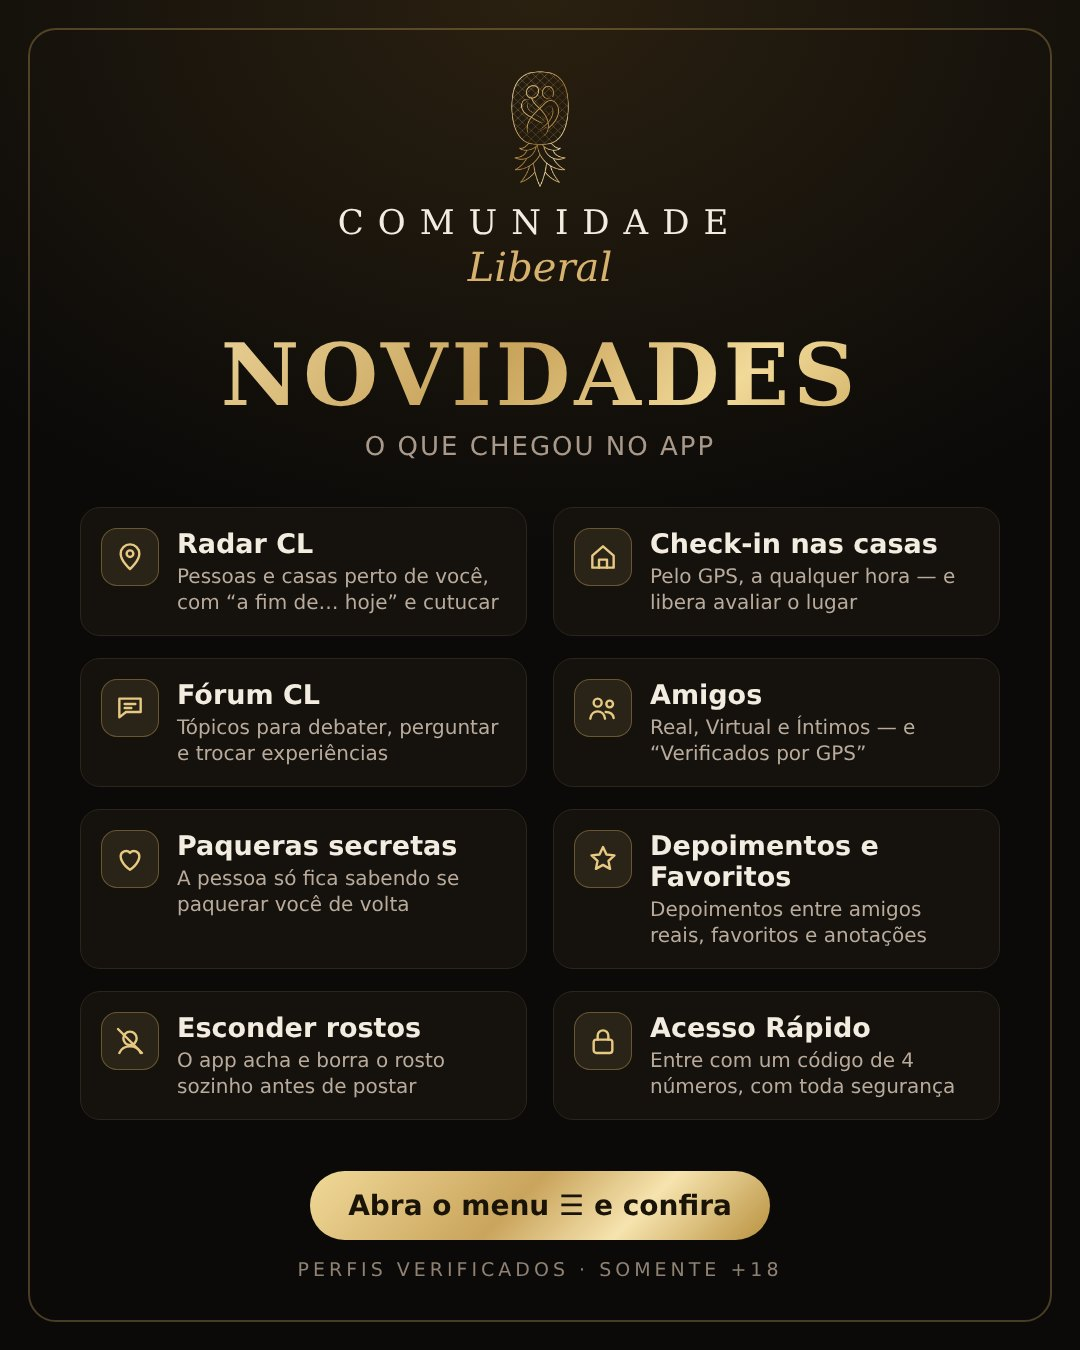
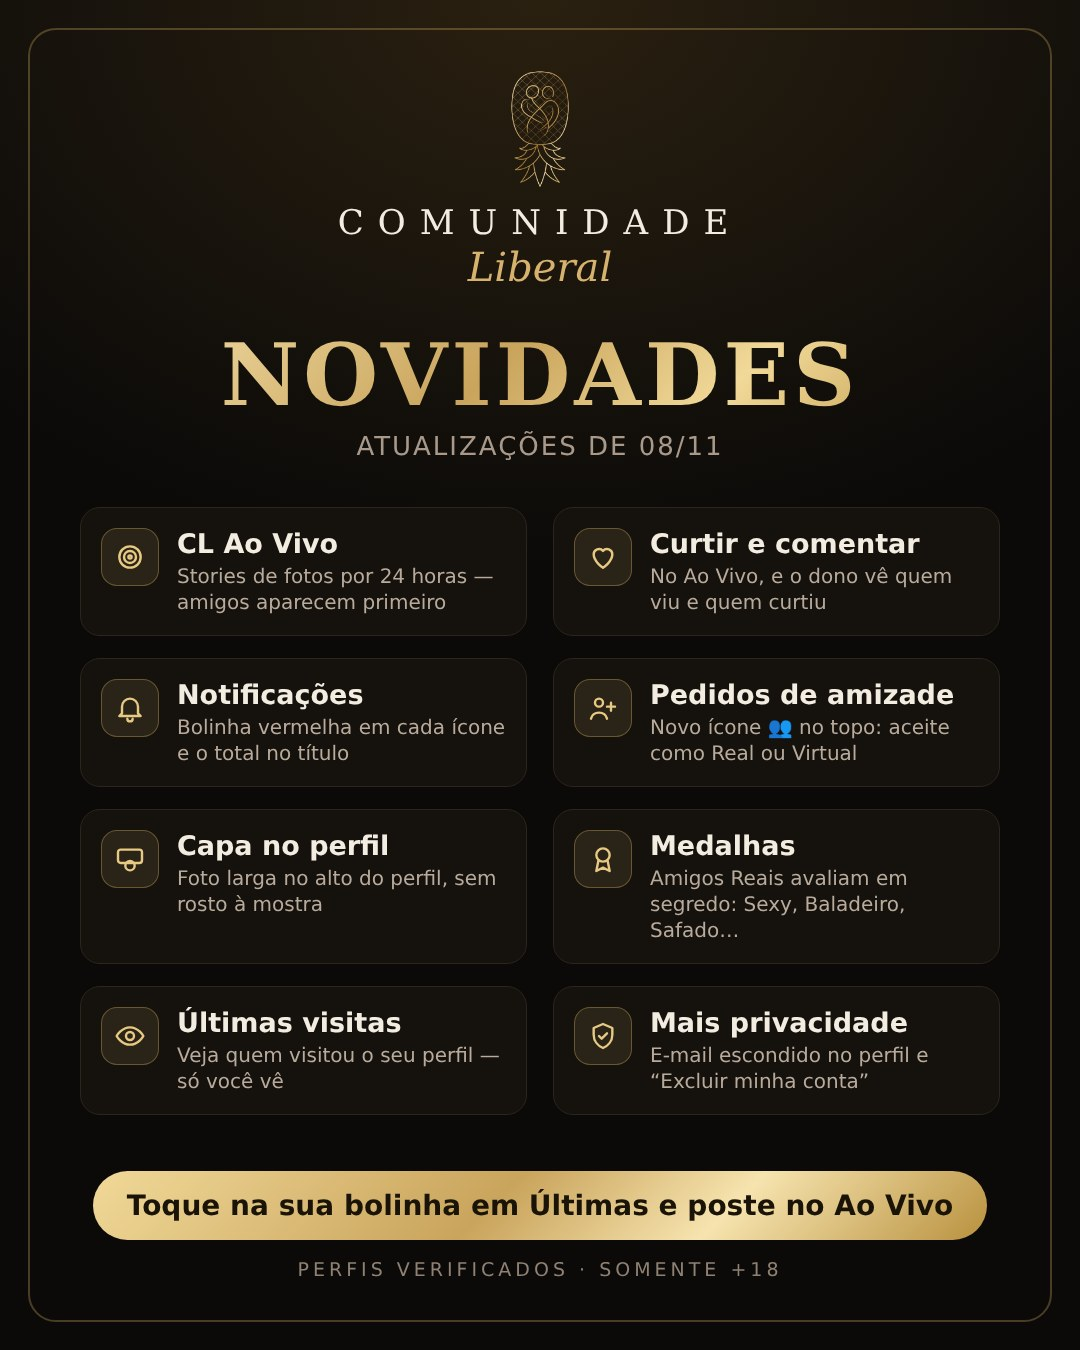
Add files via upload

diff --git a/comunidade/novidades.html b/comunidade/novidades.html
@@ -22,25 +22,25 @@
 <main>
   <div class="cartao" id="carregando"><p class="suave">Carregando…</p></div>
   <div class="oculto nv" id="tela">
-    <img class="nv-img" src="novidades.jpg?v=1" alt="Novidades da Comunidade Liberal" width="1080" height="1350">
+    <img class="nv-img" src="novidades.jpg?v=3" alt="Novidades da Comunidade Liberal" width="1080" height="1350">
     <div class="titulo-secao">Toque para conhecer</div>
+    <a class="it" href="inicio.html?aba=ultimas"><span class="e">📸</span><span><b>CL Ao Vivo</b><small>Stories de fotos por 24 horas — toque na sua bolinha em Últimas para postar</small></span></a>
+    <a class="it" href="minhas.html?ver=amigos"><span class="e">👥</span><span><b>Pedidos de amizade</b><small>Novo ícone no topo, com a bolinha vermelha de aviso</small></span></a>
+    <a class="it" href="meu-perfil.html"><span class="e">🖼</span><span><b>Capa no perfil</b><small>Toque em “Editar capa” no seu perfil</small></span></a>
+    <a class="it" href="minhas.html?ver=avaliar"><span class="e">🏅</span><span><b>Medalhas</b><small>Avalie seus Amigos Reais em segredo</small></span></a>
+    <a class="it" href="meu-perfil.html"><span class="e">👁</span><span><b>Últimas visitas</b><small>Quem visitou o seu perfil — só você vê</small></span></a>
+    <a class="it" href="seguranca.html#excluir"><span class="e">🔒</span><span><b>Privacidade</b><small>E-mail escondido e a opção de excluir a conta</small></span></a>
     <a class="it" href="radar.html"><span class="e">📡</span><span><b>Radar CL</b><small>Pessoas e casas perto de você, “a fim de… hoje” e cutucar</small></span></a>
-    <a class="it" href="checkin.html"><span class="e">📍</span><span><b>Check-in nas casas</b><small>Pelo GPS, a qualquer hora — libera avaliar o lugar</small></span></a>
     <a class="it" href="forum.html"><span class="e">💬</span><span><b>Fórum CL</b><small>Tópicos para debater, perguntar e trocar experiências</small></span></a>
-    <a class="it" href="minhas.html?ver=amigos"><span class="e">🤝</span><span><b>Amigos</b><small>Real, Virtual, Íntimos e Verificados por GPS</small></span></a>
-    <a class="it" href="minhas.html?ver=paqueras"><span class="e">💘</span><span><b>Paqueras secretas e Favoritos</b><small>A pessoa só fica sabendo se paquerar você de volta</small></span></a>
-    <a class="it" href="minhas.html?ver=depoimentos"><span class="e">⭐</span><span><b>Depoimentos e Anotações</b><small>Depoimentos entre amigos reais; anotações só você vê</small></span></a>
-    <a class="it" href="inicio.html?postar=foto"><span class="e">🫥</span><span><b>Esconder rostos</b><small>O app acha e borra o rosto antes de postar</small></span></a>
-    <a class="it" href="seguranca.html#codigo"><span class="e">🔢</span><span><b>Acesso Rápido</b><small>Crie seu código de 4 números</small></span></a>
     <a class="it" href="suporte.html"><span class="e">👑</span><span><b>Falar com a Administração</b><small>Dúvidas, sugestões e problemas</small></span></a>
   </div>
 </main>
 
-<footer><a href="regras.html">Regras e privacidade</a> · novidades.html v1.0</footer>
+<footer><a href="regras.html">Regras e privacidade</a> · novidades.html v1.2</footer>
 
 <script src="config.js?v=1.1"></script>
 <script src="https://cdn.jsdelivr.net/npm/@supabase/supabase-js@2.45.4/dist/umd/supabase.js" crossorigin="anonymous"></script>
-<script src="base.js?v=3.8"></script>
+<script src="base.js?v=3.9"></script>
 <script src="novidades.js?v=1.0"></script>
 </body>
 </html>

diff --git a/comunidade/base.js b/comunidade/base.js
@@ -1,4 +1,4 @@
-// base.js — v3.8 — conexão com o banco, moldura (topo, menu, barra de baixo) e funções comuns
+// base.js — v3.9 — conexão com o banco, moldura (topo, menu, barra de baixo) e funções comuns
 (function () {
   'use strict';
   const A = window.APP || {};
@@ -643,7 +643,45 @@
   // ---------- Moldura das telas: topo, menu lateral e barra de baixo ----------
   // ativo: 'sigame' | 'ultimas' | 'radar' | 'perfil' | 'busca' | ...
   let suporteNovas = 0, notif = {};
+  // ---------- Proteção contra print (todos menos a administração) ----------
+  // Um site não consegue bloquear 100% o print do celular. O que dá para fazer:
+  // esconder as fotos sempre que o app sai da frente (troca de app, prévia de apps recentes,
+  // ferramenta de captura do computador), apagar a área de transferência na tecla Print Screen,
+  // impedir salvar/arrastar/copiar as fotos e manter a marca d'água com o nº e o apelido do dono.
+  let protecaoLigada = false;
+  function protegerTela() {
+    if (protecaoLigada) return; protecaoLigada = true;
+    const css = document.createElement('style');
+    css.textContent = 'body.anti-print .foto-protegida,body.anti-print .av-meio canvas,body.anti-print .perfil-capa canvas{filter:blur(28px)!important}' +
+      'body.anti-print-total::after{content:"🔒 Conteúdo protegido";position:fixed;inset:0;z-index:99999;display:flex;align-items:center;justify-content:center;background:#000;color:#d6b26e;font:700 20px Inter,sans-serif}' +
+      '.foto-protegida,.av-meio canvas{-webkit-touch-callout:none;-webkit-user-select:none;user-select:none}' +
+      '@media print{body{display:none!important}}';
+    document.head.appendChild(css);
+    const esconder = () => document.body.classList.add('anti-print', 'anti-print-total');
+    const mostrar = () => document.body.classList.remove('anti-print', 'anti-print-total');
+    document.addEventListener('visibilitychange', () => { if (document.hidden) esconder(); else setTimeout(mostrar, 250); });
+    window.addEventListener('blur', () => document.body.classList.add('anti-print'));   // só desfoca as fotos
+    window.addEventListener('focus', () => setTimeout(mostrar, 250));
+    window.addEventListener('pagehide', esconder);
+    document.addEventListener('keyup', (e) => {
+      if (e.key === 'PrintScreen' || e.keyCode === 44) {
+        esconder();
+        try { navigator.clipboard.writeText('Conteúdo protegido · Comunidade Liberal').catch(() => {}); } catch (x) {}
+        toast('🔒 Print bloqueado. As fotos têm marca d\'água com o nº do dono.');
+        setTimeout(mostrar, 1500);
+      }
+    });
+    document.addEventListener('keydown', (e) => {
+      // Ctrl/Cmd+S (salvar), Ctrl/Cmd+P (imprimir), Cmd+Shift+3/4/5 (print do Mac)
+      const k = (e.key || '').toLowerCase();
+      if ((e.ctrlKey || e.metaKey) && (k === 's' || k === 'p')) { e.preventDefault(); toast('🔒 Conteúdo protegido.'); }
+      if (e.metaKey && e.shiftKey && ['3', '4', '5'].includes(k)) esconder();
+    });
+    document.addEventListener('contextmenu', (e) => { if (e.target.closest('canvas,img')) e.preventDefault(); });
+  }
+
   async function moldura(perfil, assinatura, ativo) {
+    if (!(assinatura && assinatura.admin)) protegerTela();
     const pag = (n, rotulo, href, extra) =>
       '<' + (href ? 'a href="' + href + '"' : 'button type="button"') + ' data-id="' + n + '" aria-label="' + rotulo + '"' + (extra || '') + '>' +
       icone(n) + '<span class="bolinha" id="b_' + n + '"></span></' + (href ? 'a' : 'button') + '>';

diff --git a/comunidade/chat.js b/comunidade/chat.js
@@ -1,4 +1,4 @@
-// chat.js — v1.1 — mensagens privadas em tempo real
+// chat.js — v1.2 — mensagens privadas em tempo real
 (async function () {
   'use strict';
   const { sb, $, moldura, exigirMembro, avatar, sexos, tempo, toast, fotoProtegida, abrirVisor, prepararFoto } = window.BASE;
@@ -31,7 +31,7 @@
   async function mostrarLista() {
     outro = null;
     document.body.classList.remove('em-conversa');
-    $('telaConversa').classList.add('oculto');
+    $('telaConversa').classList.add('oculto'); ajustarAltura();
     $('principal').classList.remove('oculto');
     $('telaLista').classList.remove('oculto');
     const { data } = await sb.rpc('minhas_conversas');
@@ -107,6 +107,23 @@
     }
   }
 
+  // Conversa ocupa exatamente o espaço visível (abaixo do topo e acima do teclado do celular),
+  // assim o campo de escrever fica sempre à vista, sem precisar arrastar a tela.
+  function ajustarAltura() {
+    const tela = $('telaConversa');
+    if (!document.body.classList.contains('em-conversa')) { tela.style.cssText = 'position:relative'; return; }
+    const topo = document.querySelector('.barra-topo');
+    const vv = window.visualViewport;
+    const alturaVisivel = vv ? vv.height : window.innerHeight;
+    const desloc = vv ? vv.offsetTop : 0;
+    const t = topo ? Math.max(0, topo.getBoundingClientRect().bottom) : 0;
+    tela.style.cssText = 'position:fixed;left:0;right:0;margin:0 auto;z-index:20;top:' + (t + desloc) + 'px;height:' + Math.max(200, alturaVisivel - t) + 'px';
+    const m = $('msgs'); if (m) m.scrollTop = m.scrollHeight;
+  }
+  if (window.visualViewport) { visualViewport.addEventListener('resize', ajustarAltura); visualViewport.addEventListener('scroll', ajustarAltura); }
+  window.addEventListener('resize', ajustarAltura);
+  window.addEventListener('orientationchange', () => setTimeout(ajustarAltura, 300));
+
   async function abrir(id, empilhar) {
     if (!/^[0-9a-f-]{36}$/i.test(id) || id === eu.id) { mostrarLista(); return; }
     const { data: p } = await sb.from('perfis_publicos')
@@ -118,6 +135,7 @@
     $('principal').classList.add('oculto');
     $('telaConversa').classList.remove('oculto');
     $('opcoesConv').classList.add('oculto');
+    window.scrollTo(0, 0); ajustarAltura();
     $('cAvatar').innerHTML = ''; avatar($('cAvatar'), p, 120);
     const nome = $('cNome').querySelector('span'); nome.innerHTML = ''; nome.append(sexos(p), ' ' + p.apelido + ' . ' + p.uf);
     $('cNome').href = 'perfil.html?id=' + encodeURIComponent(id);

diff --git a/comunidade/aovivo-ver.js b/comunidade/aovivo-ver.js
@@ -1,4 +1,4 @@
-// aovivo-ver.js — v1.1 — CL Ao Vivo (stories): barra de bolinhas, visualizador, curtir, comentar, quem viu e postar
+// aovivo-ver.js — v1.2 — CL Ao Vivo (stories): barra de bolinhas, visualizador, curtir, comentar, quem viu e postar
 // Uso (inicio.js): AOVIVO.barra(caixa, eu, uf)   ·   AOVIVO.postar(eu)
 (function () {
   'use strict';
@@ -70,7 +70,7 @@
     });
   }
 
-  // Apaga do cofre as minhas fotos do Ao Vivo que já passaram de 7 dias
+  // Apaga do cofre as minhas fotos do Ao Vivo que já passaram de 24 horas
   let limpou = false;
   async function limpar() {
     if (limpou) return; limpou = true;
@@ -308,7 +308,7 @@
     const corpo = el('div', 'corpo'); f.append(cab, corpo); document.body.appendChild(f);
     x.addEventListener('click', () => f.remove());
     corpo.innerHTML =
-      '<p class="suave" style="margin-top:0;font-size:.86rem">A foto fica no Ao Vivo por <b>7 dias</b> e mostra a sua cidade. Para postar, o <b>Radar</b> precisa estar ligado: ao publicar, a sua localização é atualizada.</p>' +
+      '<p class="suave" style="margin-top:0;font-size:.86rem">A foto fica no Ao Vivo por <b>24 horas</b> e mostra a sua cidade. Para postar, o <b>Radar</b> precisa estar ligado: ao publicar, a sua localização é atualizada.</p>' +
       '<div class="aviso-rosto" style="margin-bottom:10px">🚫 <b>Proibido rosto à mostra.</b> Ao escolher a foto, o app procura os rostos e esconde; confira antes de publicar.</div>' +
       '<img class="previa oculto" alt="Prévia">' +
       '<div class="linha"><button type="button" class="btn secundario" data-c="cam">📷 Tirar foto</button><button type="button" class="btn secundario" data-c="gal">🖼 Galeria</button></div>' +

diff --git a/comunidade/inicio.html b/comunidade/inicio.html
@@ -33,7 +33,7 @@
       <select id="ufAoVivo" aria-label="Estado"><option value="">todos estados</option></select>
     </div>
 
-    <!-- CL Ao Vivo: fotos de 7 dias (stories) -->
+    <!-- CL Ao Vivo: fotos de 24 horas (stories) -->
     <div class="stories" id="stories"></div>
 
     <!-- Publicar -->
@@ -74,10 +74,10 @@
 
 <script src="config.js?v=1.1"></script>
 <script src="https://cdn.jsdelivr.net/npm/@supabase/supabase-js@2.45.4/dist/umd/supabase.js" crossorigin="anonymous"></script>
-<script src="base.js?v=3.8"></script>
+<script src="base.js?v=3.9"></script>
 <script src="feed.js?v=1.5"></script>
 <script src="editor-foto.js?v=1.2"></script>
-<script src="aovivo-ver.js?v=1.1"></script>
+<script src="aovivo-ver.js?v=1.2"></script>
 <script src="inicio.js?v=2.4"></script>
 </body>
 </html>

diff --git a/comunidade/chat.html b/comunidade/chat.html
@@ -48,11 +48,11 @@
   <input type="file" id="cArquivo" accept="image/*" class="oculto">
 </div>
 
-<footer><a href="regras.html">Regras e privacidade</a> · chat.html v1.5</footer>
+<footer><a href="regras.html">Regras e privacidade</a> · chat.html v1.6</footer>
 
 <script src="config.js?v=1.1"></script>
 <script src="https://cdn.jsdelivr.net/npm/@supabase/supabase-js@2.45.4/dist/umd/supabase.js" crossorigin="anonymous"></script>
-<script src="base.js?v=3.8"></script>
-<script src="chat.js?v=1.1"></script>
+<script src="base.js?v=3.9"></script>
+<script src="chat.js?v=1.2"></script>
 </body>
 </html>

diff --git a/comunidade/lugares.html b/comunidade/lugares.html
@@ -96,7 +96,7 @@
 <footer><a href="regras.html">Regras e privacidade</a> · lugares.html v1.2</footer>
 <script src="config.js?v=1.1"></script>
 <script src="https://cdn.jsdelivr.net/npm/@supabase/supabase-js@2.45.4/dist/umd/supabase.js" crossorigin="anonymous"></script>
-<script src="base.js?v=3.8"></script>
+<script src="base.js?v=3.9"></script>
 <script src="lugares.js?v=1.1"></script>
 </body>
 </html>

diff --git a/comunidade/lugar.html b/comunidade/lugar.html
@@ -208,7 +208,7 @@
 <footer><a href="regras.html">Regras e privacidade</a> · lugar.html v1.4</footer>
 <script src="config.js?v=1.1"></script>
 <script src="https://cdn.jsdelivr.net/npm/@supabase/supabase-js@2.45.4/dist/umd/supabase.js" crossorigin="anonymous"></script>
-<script src="base.js?v=3.8"></script>
+<script src="base.js?v=3.9"></script>
 <script src="lugar.js?v=1.4"></script>
 </body>
 </html>

diff --git a/comunidade/meu-perfil.html b/comunidade/meu-perfil.html
@@ -144,7 +144,7 @@
 
 <script src="config.js?v=1.1"></script>
 <script src="https://cdn.jsdelivr.net/npm/@supabase/supabase-js@2.45.4/dist/umd/supabase.js" crossorigin="anonymous"></script>
-<script src="base.js?v=3.8"></script>
+<script src="base.js?v=3.9"></script>
 <script src="editor-foto.js?v=1.2"></script>
 <script src="meu-perfil.js?v=2.8"></script>
 </body>

diff --git a/comunidade/checkin.html b/comunidade/checkin.html
@@ -69,7 +69,7 @@
 
 <script src="config.js?v=1.1"></script>
 <script src="https://cdn.jsdelivr.net/npm/@supabase/supabase-js@2.45.4/dist/umd/supabase.js" crossorigin="anonymous"></script>
-<script src="base.js?v=3.8"></script>
+<script src="base.js?v=3.9"></script>
 <script src="lugares-mapa.js?v=1.1"></script>
 <script src="checkin.js?v=1.2"></script>
 </body>

diff --git a/comunidade/radar.html b/comunidade/radar.html
@@ -141,7 +141,7 @@
 
 <script src="config.js?v=1.1"></script>
 <script src="https://cdn.jsdelivr.net/npm/@supabase/supabase-js@2.45.4/dist/umd/supabase.js" crossorigin="anonymous"></script>
-<script src="base.js?v=3.8"></script>
+<script src="base.js?v=3.9"></script>
 <script src="lugares-mapa.js?v=1.1"></script>
 <script src="radar.js?v=1.1"></script>
 </body>

diff --git a/comunidade/perfil.html b/comunidade/perfil.html
@@ -147,7 +147,7 @@
 
 <script src="config.js?v=1.1"></script>
 <script src="https://cdn.jsdelivr.net/npm/@supabase/supabase-js@2.45.4/dist/umd/supabase.js" crossorigin="anonymous"></script>
-<script src="base.js?v=3.8"></script>
+<script src="base.js?v=3.9"></script>
 <script src="feed.js?v=1.5"></script>
 <script src="perfil.js?v=2.8"></script>
 </body>
